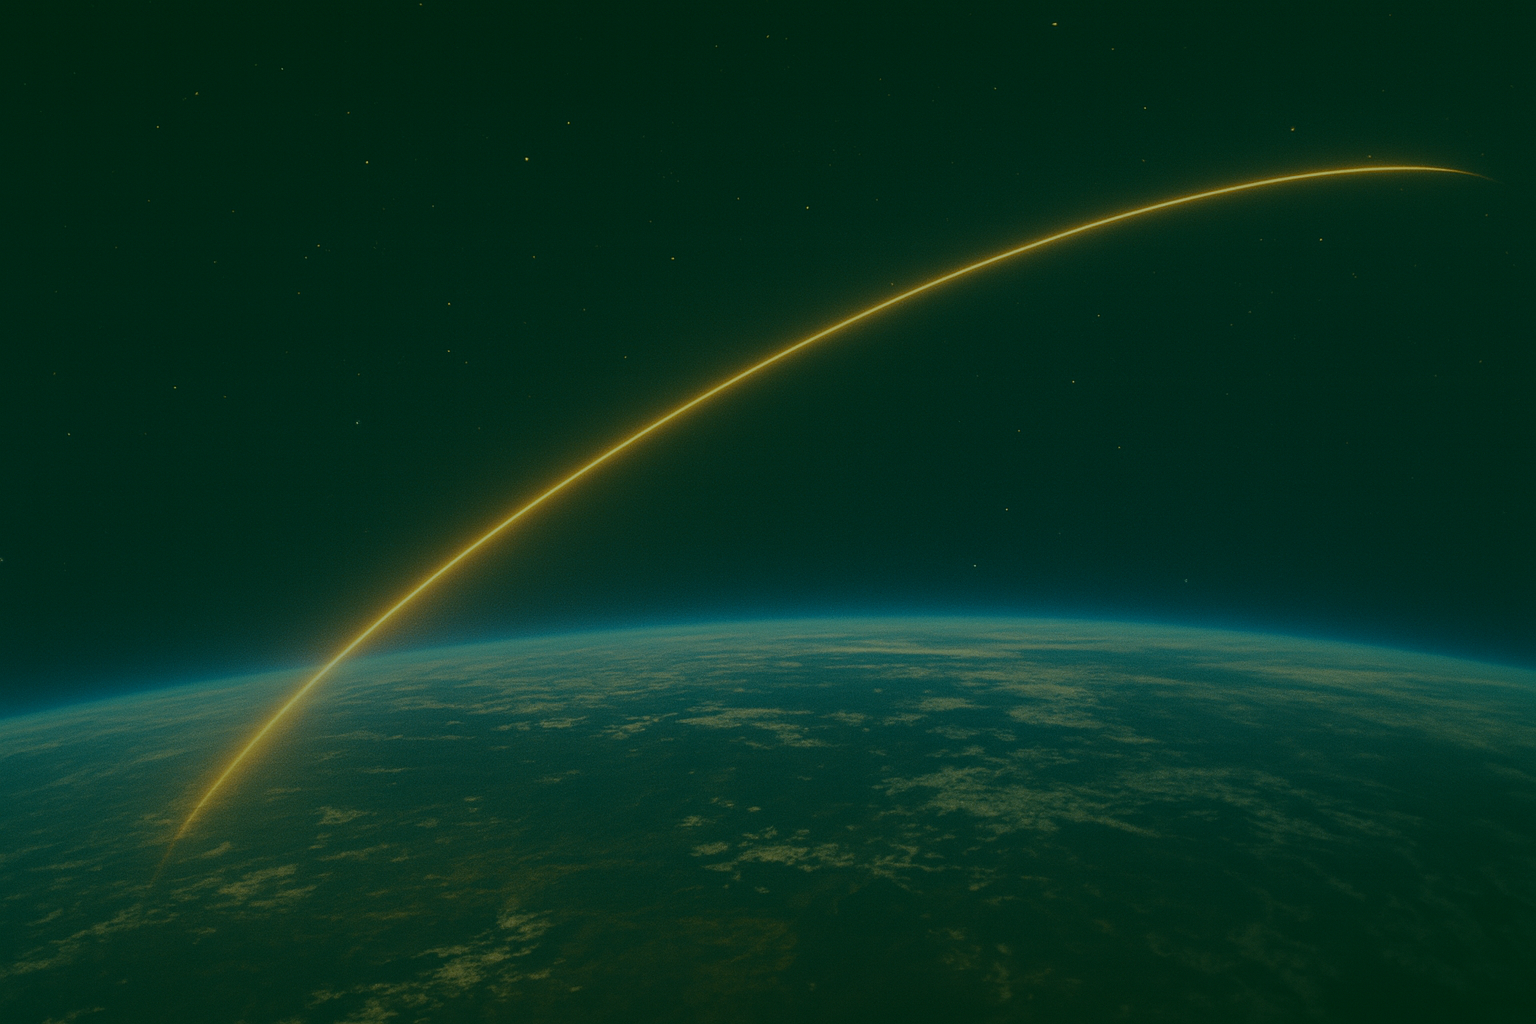
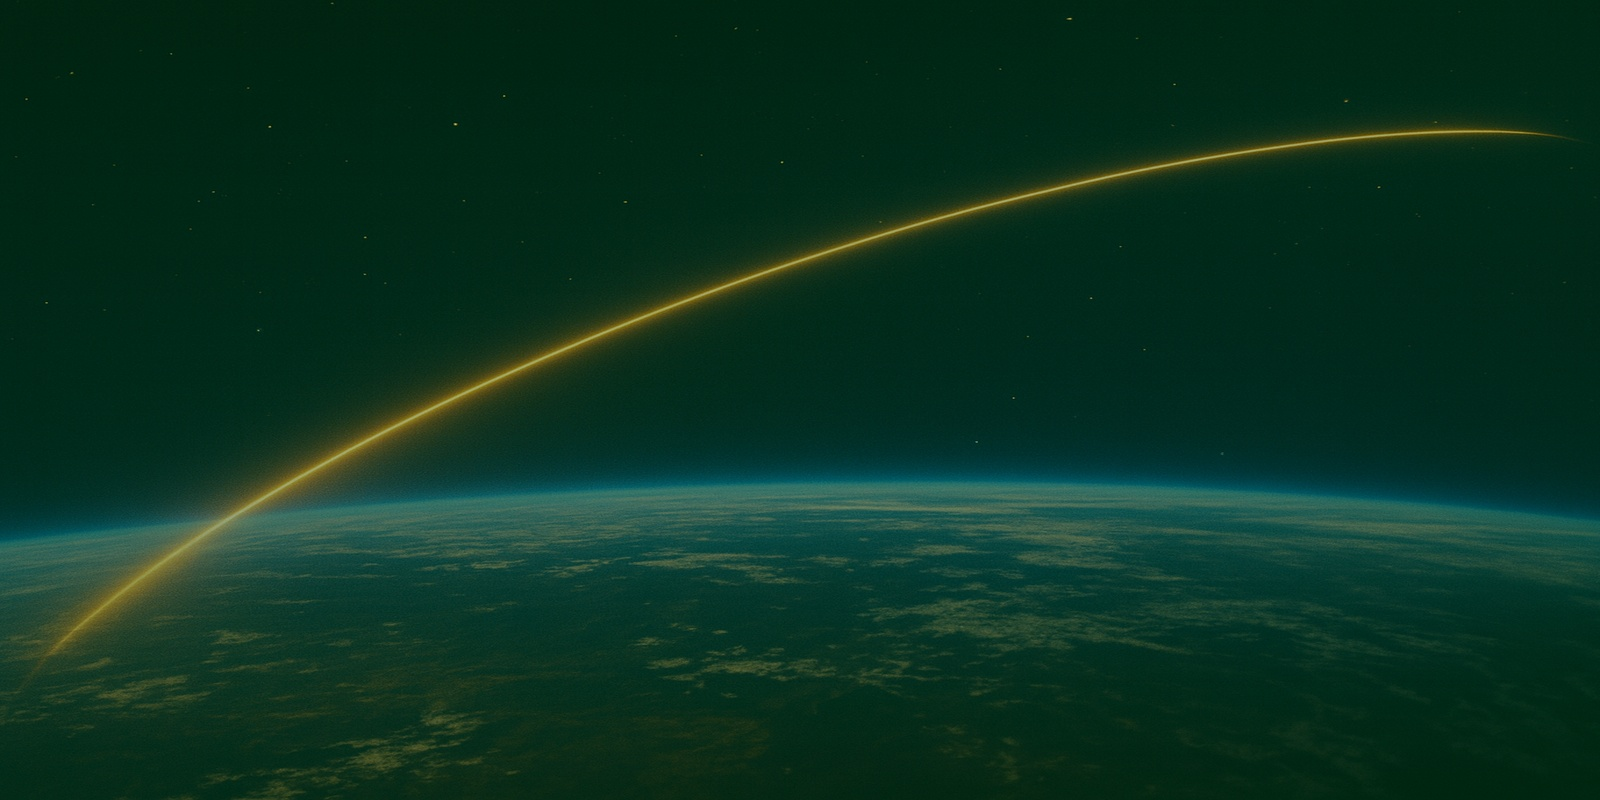
fixed repeating image

diff --git a/css/main.css b/css/main.css
@@ -1,4 +1,3 @@
-
 /* =================================== */
 /*	Basic Style 
 /* =================================== */
@@ -56,7 +55,7 @@ h1, h2, h3,
 h4, h5, h6 {
 	font-weight: normal;
 	margin: 0;
-  color: #00EB02;
+    color: #00EB02;
 }
 
 h2 {
@@ -142,8 +141,8 @@ body > section,
   z-index: 1100;
 
   display: flex;
-  justify-content: center; /* horizontal center */
-  align-items: center;     /* vertical center */
+  justify-content: center; 
+  align-items: center;    
 }
 
 #preloader > img {
@@ -191,7 +190,6 @@ body > section,
 
 
 
-
 /*=========================================
 	Slider
 ==========================================*/
@@ -200,8 +198,12 @@ body > section,
 	padding: 0;
 }
 
+/* UPDATED BLOCK — NON-REPEATING BANNER */
 #slider .carousel-inner .item {
-  background-size: cover;
+  background-image: url("img/banner.jpg");
+  background-repeat: no-repeat; 
+  background-size: cover; 
+  background-position: center center; 
 }
 
 .carousel-caption {
@@ -903,29 +905,18 @@ label.error {
   transform-origin: bottom center;
 }
 
-.spinner div:nth-of-type(6) {
-  transform: translateZ(35.2px);
-}
+.spinner div:nth-of-type(6) { transform: translateZ(35.2px); }
 
 @keyframes spinner {
-  0% {
-    transform: rotate(45deg) rotateX(-25deg) rotateY(25deg);
-  }
-
-  50% {
-    transform: rotate(45deg) rotateX(-385deg) rotateY(25deg);
-  }
-
-  100% {
-    transform: rotate(45deg) rotateX(-385deg) rotateY(385deg);
-  }
+  0%   { transform: rotate(45deg) rotateX(-25deg) rotateY(25deg); }
+  50%  { transform: rotate(45deg) rotateX(-385deg) rotateY(25deg); }
+  100% { transform: rotate(45deg) rotateX(-385deg) rotateY(385deg); }
 }
 
 /*=========================================
 	AEGIS Hover code
 ==========================================*/
 
-/* button styling */
 .aegis-button {
   display: inline-block;   
   margin: 0 0 0 5px;  
@@ -947,7 +938,6 @@ label.error {
   --text-stroke-color: rgba(255,255,255,0.6);
 }
 
-/* The hover overlay text */
 .aegis-button .hover-text {
   position: absolute;
   box-sizing: border-box;
@@ -961,7 +951,6 @@ label.error {
   -webkit-text-stroke: 1px var(--animation-color);
 }
 
-/* Hover effect */
 .aegis-button:hover .hover-text {
   width: 100%;
   filter: drop-shadow(0 0 23px var(--animation-color));
@@ -971,6 +960,7 @@ label.error {
 /*=========================================
 	Video Player
 ==========================================*/
+
 .video-player {
     display: block;
     margin: 0 auto;

diff --git a/index.html b/index.html
@@ -105,7 +105,7 @@
         Home Slider
         ==================================== -->
 
-    <section id="slider" class="static-banner" style="background-image: url('img/banner.jpg');">
+    <section id="slider" class="static-banner" style="background-image: url('img/banner.jpg'); background-size: contain; background-repeat: no-repeat; background-position: center;">
         <div class="carousel-caption">
             <h2 id="logo">
                 Welcome to 
